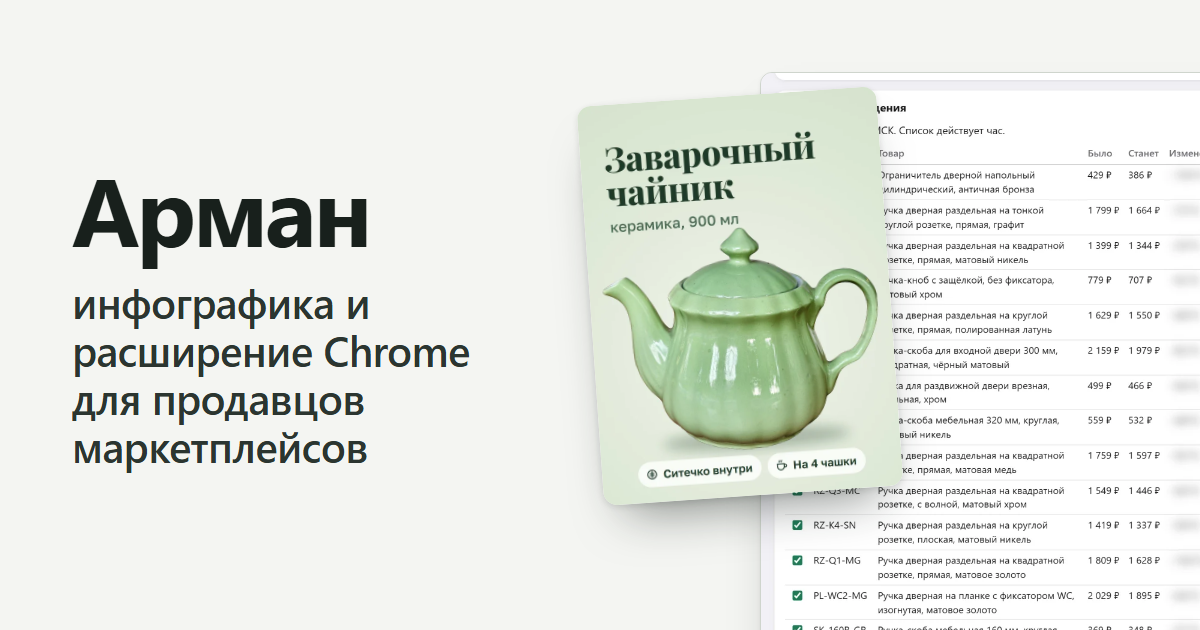
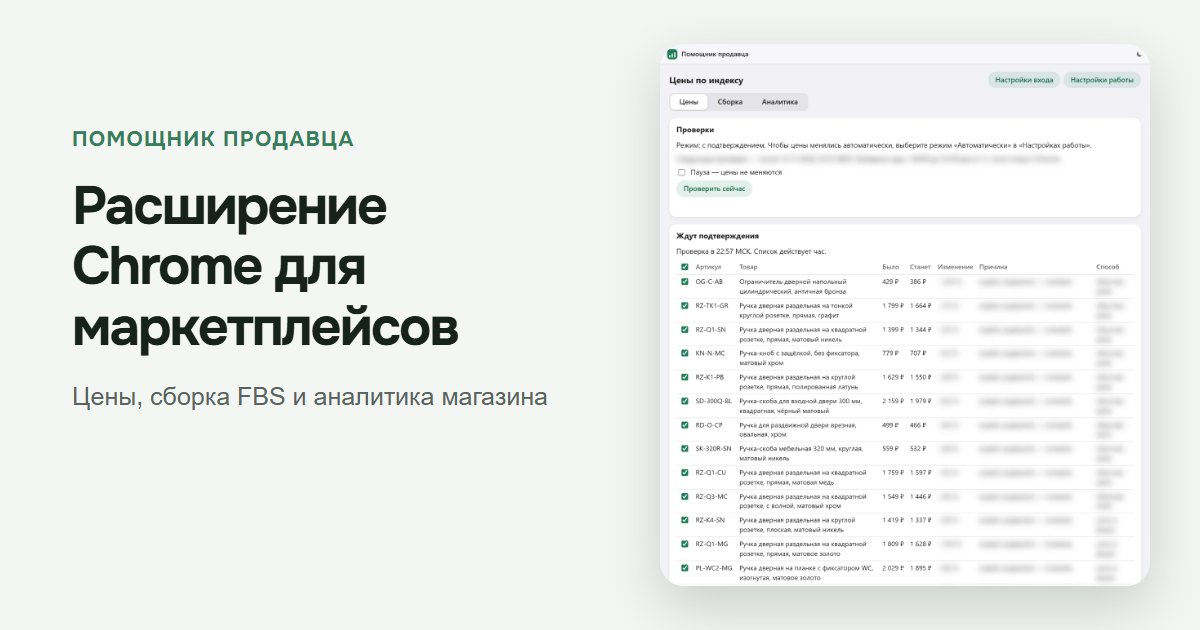
Обновить сайт под расширение

diff --git a/extensions.html b/extensions.html
@@ -6,18 +6,18 @@
 <meta name="color-scheme" content="dark">
 <meta name="theme-color" content="#121715">
 <title>Расширение Chrome для продавцов маркетплейсов: Арман</title>
-<meta name="description" content="Расширение Google Chrome, которое автоматизирует работу продавца маркетплейса с большим ассортиментом. Пробная версия на 3 дня бесплатно.">
+<meta name="description" content="Расширение Chrome для цен, сборки FBS и аналитики магазина. Пробная версия со всеми функциями на 3 дня.">
 <link rel="canonical" href="https://armanch17.github.io/extensions.html">
 <meta property="og:type" content="website">
 <meta property="og:locale" content="ru_RU">
 <meta property="og:url" content="https://armanch17.github.io/extensions.html">
 <meta property="og:title" content="Расширение Chrome для продавцов маркетплейсов: Арман">
-<meta property="og:description" content="Расширение Google Chrome, которое автоматизирует работу продавца маркетплейса с большим ассортиментом. Пробная версия на 3 дня бесплатно.">
-<meta property="og:image" content="https://armanch17.github.io/images/cover.png?v=4">
+<meta property="og:description" content="Расширение Chrome для цен, сборки FBS и аналитики магазина. Пробная версия со всеми функциями на 3 дня.">
+<meta property="og:image" content="https://armanch17.github.io/images/cover.png?v=5">
 <meta property="og:image:type" content="image/png">
 <meta property="og:image:width" content="1200">
 <meta property="og:image:height" content="630">
-<meta property="og:image:alt" content="Арман: инфографика и расширение Chrome для продавцов маркетплейсов">
+<meta property="og:image:alt" content="Расширение Chrome для продавцов маркетплейсов">
 <meta name="twitter:card" content="summary_large_image">
 <link rel="icon" href="favicon.ico" sizes="32x32">
 <link rel="icon" href="favicon.svg" type="image/svg+xml">
@@ -27,16 +27,15 @@
 <div class="page">
 
 <header class="top">
-  <a class="home" href="index.html">Арман</a>
-  <nav aria-label="Направления">
-    <a href="infographics.html">Инфографика</a>
+  <a class="home" href="index.html">Помощник продавца</a>
+  <nav aria-label="Разделы">
     <a href="extensions.html" aria-current="page">Расширение Chrome</a>
   </nav>
 </header>
 
 <div class="inner-head">
   <h1>Расширение Chrome для продавцов маркетплейсов</h1>
-  <p class="lead">Я делаю расширение Google Chrome, которое автоматизирует работу продавца маркетплейса с большим ассортиментом. Расширение уже работает в реальной торговле, на ассортименте больше 600 товаров.</p>
+  <p class="lead">Я разработал расширение Chrome для управления ценами, сборки заказов FBS и аналитики магазина. В реальной торговле оно работает на ассортименте больше 600 товаров.</p>
   <figure class="shot">
     <video controls playsinline preload="none" poster="images/video-poster-2.webp" width="1920" height="1080" aria-label="Ролик о расширении: проверка цен, список изменений, журнал и сборка заказов в кабинете продавца"><source src="video/reklama-5.mp4" type="video/mp4"></video>
   </figure>
@@ -53,28 +52,38 @@
     <p class="feature text"><strong>Два режима.</strong> Цены меняются автоматически или после вашего подтверждения. Во втором режиме вы видите список изменений с причинами и отмечаете, что применить.</p>
 
     <figure class="shot">
-      <a href="images/ad-prices.webp"><img src="images/ad-prices.webp" width="1920" height="1080" loading="lazy" decoding="async" alt="Кабинет продавца, справа на половину экрана панель расширения с таблицей «Ждут подтверждения»: артикул, товар, было, станет. Столбцы «Изменение», «Причина» и «Способ» размыты."></a>
+      <a href="images/ad-prices.webp?v=5"><img src="images/ad-prices.webp?v=5" width="1920" height="1080" loading="lazy" decoding="async" alt="Кабинет продавца, справа на половину экрана панель расширения с таблицей «Ждут подтверждения»: артикул, товар, было, станет. Столбцы «Изменение», «Причина» и «Способ» размыты."></a>
       <figcaption>Список изменений в режиме с подтверждением: вы отмечаете строки и нажимаете «Применить отмеченные». Данные на снимках условные, часть из них скрыта.</figcaption>
     </figure>
 
     <p class="feature text"><strong>Журнал и откат.</strong> Каждое изменение записывается в журнал, его можно скачать для Excel. Последнюю проверку можно откатить одной кнопкой.</p>
 
     <figure class="shot">
-      <a href="images/ad-journal.webp"><img src="images/ad-journal.webp" width="1920" height="1080" loading="lazy" decoding="async" alt="Кабинет продавца, справа на половину экрана панель расширения с журналом изменений и кнопками «Скачать журнал для Excel» и «Откатить последние изменения». Столбец «Причина» и одна строка размыты."></a>
+      <a href="images/ad-journal.webp?v=5"><img src="images/ad-journal.webp?v=5" width="1920" height="1080" loading="lazy" decoding="async" alt="Кабинет продавца, справа на половину экрана панель расширения с журналом изменений и кнопками «Скачать журнал для Excel» и «Откатить последние изменения». Столбец «Причина» и одна строка размыты."></a>
       <figcaption>Журнал изменений: артикул, старая и новая цена, итог. Часть данных на снимке скрыта.</figcaption>
     </figure>
 
     <p class="feature text"><strong>Сборка FBS.</strong> Лист подбора с фото товаров и этикетки маркетплейса печатаются в одном порядке, по артикулу. Кнопка стоит прямо в личном кабинете продавца.</p>
 
     <figure class="shot">
-      <a href="images/ad-assembly.webp"><img src="images/ad-assembly.webp" width="1920" height="1080" loading="lazy" decoding="async" alt="Кабинет продавца, справа на половину экрана панель расширения: страница «Сборка» с кнопками «Лист подбора» и «Этикетки», номерами строк, фото, артикулами и кодами этикеток."></a>
+      <a href="images/ad-assembly.webp?v=5"><img src="images/ad-assembly.webp?v=5" width="1920" height="1080" loading="lazy" decoding="async" alt="Кабинет продавца, справа на половину экрана панель расширения: страница «Сборка» с кнопками «Лист подбора» и «Этикетки», номерами строк, фото, артикулами и кодами этикеток."></a>
       <figcaption>Страница «Сборка»: отправления «Готовы к отгрузке» по порядку артикулов. Справа крупный код с этикетки маркетплейса.</figcaption>
     </figure>
 
     <figure class="shot">
-      <a href="images/ad-picklist.webp"><img src="images/ad-picklist.webp" width="1920" height="1080" loading="lazy" decoding="async" alt="Лист подбора: номер отправления, фото товара, название, артикул, количество и код этикетки."></a>
+      <a href="images/ad-picklist.webp?v=5"><img src="images/ad-picklist.webp?v=5" width="1920" height="1080" loading="lazy" decoding="async" alt="Лист подбора: номер отправления, фото товара, название, артикул, количество и код этикетки."></a>
       <figcaption>Лист подбора для печати. Строки идут в том же порядке, что и этикетки. Если товаров больше одного, количество напечатано на чёрной плашке.</figcaption>
     </figure>
+</section>
+
+<section aria-labelledby="analytics">
+  <h2 id="analytics">Аналитика магазина</h2>
+  <p class="feature text"><strong>Выкуп и отмены.</strong> Сводка по товарам показывает выкупленные и невыкупленные заказы, отмены до отправки и причины.</p>
+  <p class="feature text"><strong>Покупатели.</strong> Заказы FBS и FBO сгруппированы по покупателям. Видны выкупленные заказы, отказы и отмены.</p>
+  <p class="feature text"><strong>Поиск и названия.</strong> Посмотрите поисковые запросы покупателей, контент-рейтинг и подсказки к названиям товаров.</p>
+  <p class="feature text"><strong>Доход.</strong> Продажи, возвраты, комиссия, логистика и прочие начисления собраны по дням, неделям или месяцам. Укажите себестоимость, и расширение посчитает прибыль, маржинальность и ROI.</p>
+  <p class="feature text"><strong>Остатки FBO.</strong> Остатки по кластерам, продажи в день, запас в днях и оценка оборачиваемости. Расширение отмечает товары без остатка, товары, которые пора пополнить, и залежавшиеся товары.</p>
+  <p class="feature text">Для отчётов можно выбрать неделю, месяц, квартал или год, а также FBS, FBO или обе схемы. Таблицы можно скачать для Excel.</p>
 </section>
 
 <section aria-labelledby="start">
@@ -87,21 +96,7 @@
 
 <section aria-labelledby="security">
   <h2 id="security">Безопасность</h2>
-      <p>Расширение работает через официальный API маркетплейса. API-ключ вы создаёте в личном кабинете продавца сами, с доступом только к товарам, акциям и заказам. Ключ хранится только в вашем браузере, зашифрованный вашим паролем, и отправляется только на сервер маркетплейса. Мне и третьим лицам данные не уходят.</p>
-</section>
-
-<section aria-labelledby="more">
-  <h2 id="more">Что можно добавить</h2>
-      <ul class="ideas text">
-      <li>Прибыль по каждому товару с учётом комиссий, логистики и себестоимости.</li>
-      <li>Прогноз остатков и поставок FBO по кластерам.</li>
-      <li>Контроль автоакций маркетплейса.</li>
-      <li>Заявки «Хочу скидку»: одобрение или отказ по вашей минимальной цене.</li>
-      <li>Проверка карточек: контент-рейтинг, ошибки модерации, неверные габариты.</li>
-      <li>Сканирование кодов «Честного знака» при сборке.</li>
-      <li>Уведомления, когда падает рейтинг или растёт индекс ошибок FBS.</li>
-    </ul>
-    <p style="margin-top:24px">Цена расширения зависит от того, что нужно вашему магазину. Напишите, я покажу расширение в деле и назову цену.</p>
+      <p>Расширение работает через официальный API Ozon. API-ключ создаёте вы в кабинете продавца. Ключ хранится в браузере, зашифрованный вашим паролем, и отправляется только в Ozon. Для аналитики нужны права чтения; расширение покажет, если их не хватает. Данные не уходят разработчику и третьим лицам.</p>
 </section>
 
 </main>

diff --git a/index.html b/index.html
@@ -5,19 +5,19 @@
 <meta name="viewport" content="width=device-width, initial-scale=1">
 <meta name="color-scheme" content="dark">
 <meta name="theme-color" content="#121715">
-<title>Арман: инфографика и расширение Chrome для продавцов маркетплейсов</title>
-<meta name="description" content="Делаю карточки товаров и расширение Google Chrome для продавцов маркетплейсов. В карточках обложки и слайды. Расширение автоматически следит за ценами и помогает собирать заказы.">
+<title>Расширение Chrome для продавцов маркетплейсов — Арман</title>
+<meta name="description" content="Расширение Chrome для управления ценами, сборки заказов FBS и аналитики магазина. Пробная версия со всеми функциями на 3 дня.">
 <link rel="canonical" href="https://armanch17.github.io/">
 <meta property="og:type" content="website">
 <meta property="og:locale" content="ru_RU">
 <meta property="og:url" content="https://armanch17.github.io/">
-<meta property="og:title" content="Арман: инфографика и расширение Chrome для продавцов маркетплейсов">
-<meta property="og:description" content="Делаю карточки товаров и расширение Google Chrome для продавцов маркетплейсов. В карточках обложки и слайды. Расширение автоматически следит за ценами и помогает собирать заказы.">
-<meta property="og:image" content="https://armanch17.github.io/images/cover.png?v=4">
+<meta property="og:title" content="Расширение Chrome для продавцов маркетплейсов — Арман">
+<meta property="og:description" content="Управление ценами, сборка заказов FBS и аналитика магазина. Пробная версия со всеми функциями на 3 дня.">
+<meta property="og:image" content="https://armanch17.github.io/images/cover.png?v=5">
 <meta property="og:image:type" content="image/png">
 <meta property="og:image:width" content="1200">
 <meta property="og:image:height" content="630">
-<meta property="og:image:alt" content="Арман: инфографика и расширение Chrome для продавцов маркетплейсов">
+<meta property="og:image:alt" content="Расширение Chrome для продавцов маркетплейсов">
 <meta name="twitter:card" content="summary_large_image">
 <link rel="icon" href="favicon.ico" sizes="32x32">
 <link rel="icon" href="favicon.svg" type="image/svg+xml">
@@ -27,27 +27,17 @@
 <div class="page">
 
 <header class="hub-head">
-  <h1>Арман: инфографика и расширение Chrome для продавцов маркетплейсов</h1>
-  <p class="lead">Делаю карточки товаров и расширение Google Chrome для продавцов маркетплейсов. В карточках обложки и слайды. Расширение автоматически следит за ценами и помогает собирать заказы.</p>
+  <h1>Расширение Chrome для продавцов маркетплейсов</h1>
+  <p class="lead">Цены, сборка заказов FBS и аналитика магазина в кабинете продавца. Расширение уже работает в реальной торговле на ассортименте больше 600 товаров.</p>
 </header>
 
 <main class="doors">
-  <a class="door door-cards infographics" href="infographics.html">
-    <h2>Инфографика для карточек</h2>
-    <p>Обложки и слайды карточек товаров для маркетплейсов. Обложки делаю в двух-трёх вариантах на выбор.</p>
-    <span class="go">Смотреть работы</span>
-    <span class="art" aria-hidden="true">
-      <img src="images/work/cream-1-cover.webp?v=2" alt="" width="600" height="800">
-      <img src="images/work/teapot-1-cover.webp" alt="" width="600" height="800">
-      <img src="images/work/headphones-1-cover.webp" alt="" width="600" height="800">
-    </span>
-  </a>
   <a class="door door-ext" href="extensions.html">
-    <h2>Расширение Chrome</h2>
-    <p>Цены по индексу и сборка заказов FBS. Расширение работает в реальной торговле, на ассортименте больше 600 товаров. Пробная версия на 3 дня бесплатно.</p>
-    <span class="go">Как работает расширение</span>
+    <h2>Помощник продавца</h2>
+    <p>Проверка цен по расписанию, сборка FBS и пять разделов аналитики. Пробная версия со всеми функциями на 3 дня.</p>
+    <span class="go">Посмотреть возможности</span>
     <span class="art" aria-hidden="true">
-      <img src="images/prices-check.webp" alt="" width="1200" height="2048">
+      <img src="images/prices-check.webp?v=5" alt="" width="1200" height="2048">
     </span>
   </a>
 </main>

diff --git a/style.css b/style.css
@@ -30,10 +30,6 @@
   color-scheme: dark;
 }
 
-.infographics {
-  --accent: var(--amber);
-}
-
 *,
 *::before,
 *::after {
@@ -169,6 +165,10 @@ h2 {
   text-decoration: none;
 }
 
+.door:only-child {
+  grid-column: 1 / -1;
+}
+
 .door:hover {
   border-color: var(--accent);
 }
@@ -192,33 +192,6 @@ h2 {
   flex: 1;
   min-height: 210px;
   margin-top: 16px;
-}
-
-.door-cards .art img {
-  position: absolute;
-  bottom: -40px;
-  width: 38%;
-  max-width: 190px;
-  height: auto;
-  aspect-ratio: 3 / 4;
-  border-radius: 12px;
-  box-shadow: 0 20px 40px -20px rgba(0, 0, 0, 0.8);
-}
-
-.door-cards .art img:nth-child(1) {
-  left: 4%;
-  transform: rotate(-6deg);
-}
-
-.door-cards .art img:nth-child(2) {
-  left: 31%;
-  bottom: -20px;
-  z-index: 2;
-}
-
-.door-cards .art img:nth-child(3) {
-  left: 58%;
-  transform: rotate(6deg);
 }
 
 .door-ext .art img {
